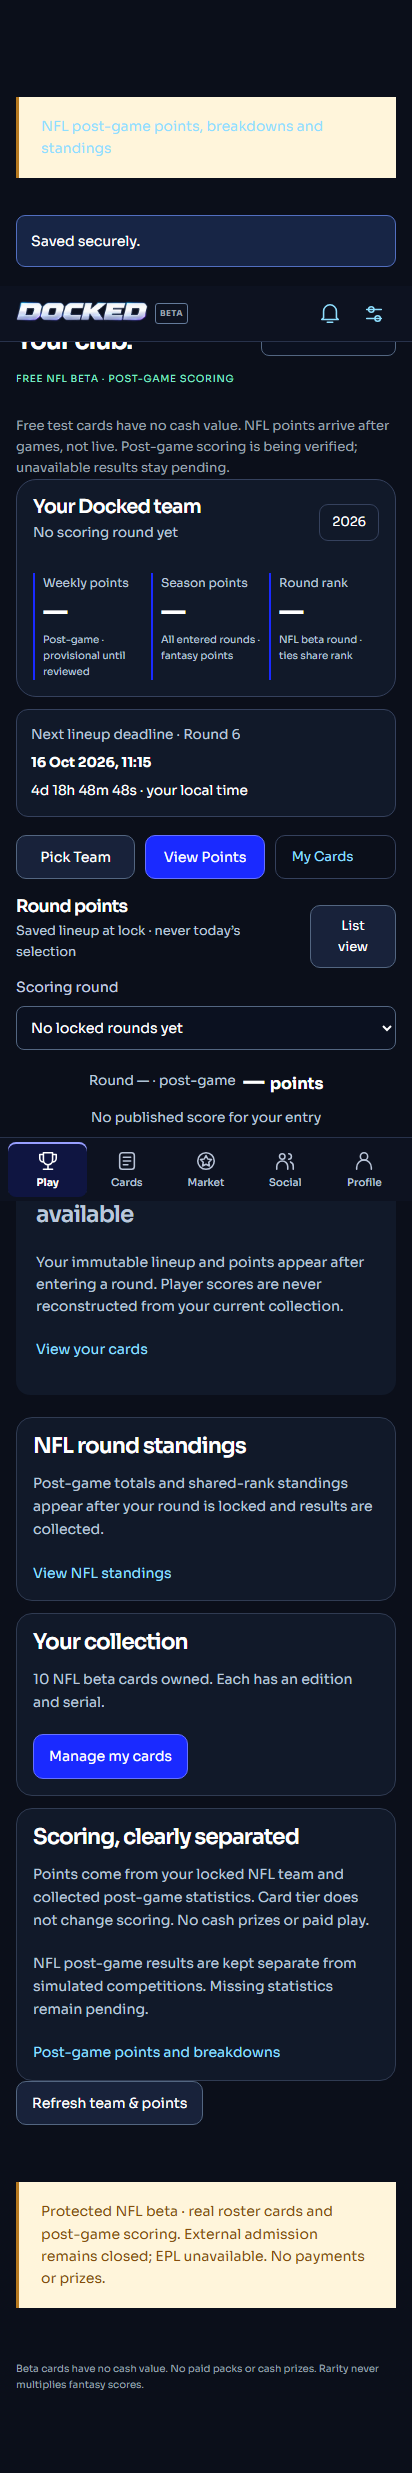
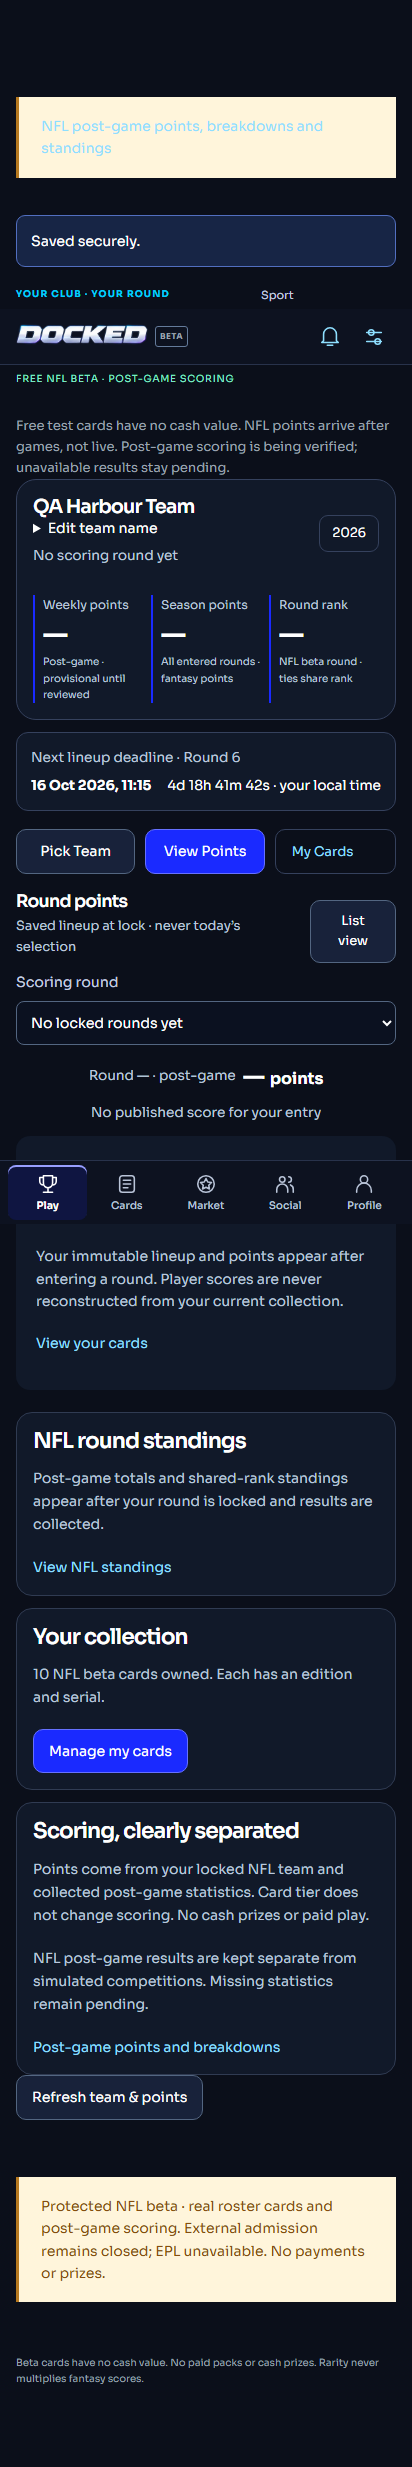
Record staged friends readiness and hosted customer acceptance

diff --git a/tests/platform/friends-target.test.ts b/tests/platform/friends-target.test.ts
@@ -103,7 +103,12 @@ test("complete friends guard retains exact project, role, commercial and secret 
       fixture(),
     ),
   );
-  assert.throws(() => friendsReleaseIdentity(env));
+  assert.throws(() =>
+    friendsReleaseIdentity(env, {
+      ...fixture(),
+      externalReadinessVerified: false,
+    }),
+  );
   for (const change of [
     { VERCEL_PROJECT_ID: "other" },
     { VERCEL_ORG_ID: "other" },
@@ -136,8 +141,9 @@ const target = () => ({
   DOCKED_TWO_PERSON_BETA: "true",
 });
 test("release authority alone cannot enable friends or impersonate readiness", () => {
-  assert.throws(() => assertFriendsReadiness(), /incomplete/);
-  assert.throws(() => assertHostedBeta(target()), /incomplete/);
+  const unverified = { ...fixture(), externalReadinessVerified: false };
+  assert.throws(() => assertFriendsReadiness(unverified), /incomplete/);
+  assert.throws(() => assertHostedBeta(target(), unverified), /incomplete/);
   assert.equal(assertFriendsTarget({}), false);
   assert.throws(() => assertHostedBeta({ DOCKED_FRIENDS_BETA: "yes" }));
 });
@@ -207,7 +213,12 @@ test("friends consent binds the actual packet and cannot relabel historical copy
   );
   assert.equal(betaPolicyPacket({}).friends, false);
   assert.notEqual(betaPolicyPacket({}).packet.version, packet.version);
-  assert.throws(() => betaPolicyPacket(target()));
+  assert.throws(() =>
+    betaPolicyPacket(target(), {
+      ...fixture(),
+      externalReadinessVerified: false,
+    }),
+  );
   const changed = fixture();
   changed.policyApproval.digest = "c".repeat(64);
   assert.throws(() => assertFriendsReadiness(changed));

diff --git a/docs/CUSTOMER_FRIENDS_RELEASE.md b/docs/CUSTOMER_FRIENDS_RELEASE.md
@@ -27,10 +27,11 @@ An isolated synthetic ordinary account now passed real Auth creation, non-consum
 
 Hosted browser selection saved/reopened seven eligible cards and replaced the QB before lock. Pending points remained empty. Each unlocked internal draft was removed with its snapshot preserved in an audit event, before any genuine round lock. The internal QA reservation remains within the ten-account ceiling (nine remaining external slots); no permanent roster or scarcity guard was bypassed.
 
-Console acceptance found a server/device date-format hydration mismatch. A shared local-time component now hydrates a deterministic UTC fallback before device formatting; its Sydney browser regression passed. A persisted beta-only team name was also added with input validation, own-account enforcement, request idempotency and audit history; the additive migration preserved existing holdings and commercial inventory. The focused database regression, typecheck and lint passed. Hosted verification of these final changes remains pending.
+Console acceptance found a server/device date-format hydration mismatch. A shared local-time component now hydrates a deterministic UTC fallback before device formatting; its Sydney browser regression passed. A persisted beta-only team name was also added with input validation, own-account enforcement, request idempotency and audit history; the additive migration preserved existing holdings and commercial inventory. The focused database regression, typecheck and lint passed. The latest hosted browser acceptance passed: team name saved/restored, valid lineup saved/restored and replaced, all five mobile tabs, admin denial and no page errors.
 
 ## Outstanding release evidence
 
-Final corrected hosted console/team-name acceptance; domain/callback transition; accessible domain check; accepted-host Android build and credential/signature scan. Do not label these passed from SQL or component tests. No friends APK is released yet.
+Domain/callback transition; accessible domain check; accepted-host Android build and credential/signature scan. Do not label these passed from SQL or component tests. No friends APK is released yet.
 
 Keep DNS/Auth rollback preimages in `private-data/friends-cutover/`. The holding page and owner APK remain released until cutover passes. Do not distribute v16 as a friends build. No invitations until explicit send authorisation.
+
